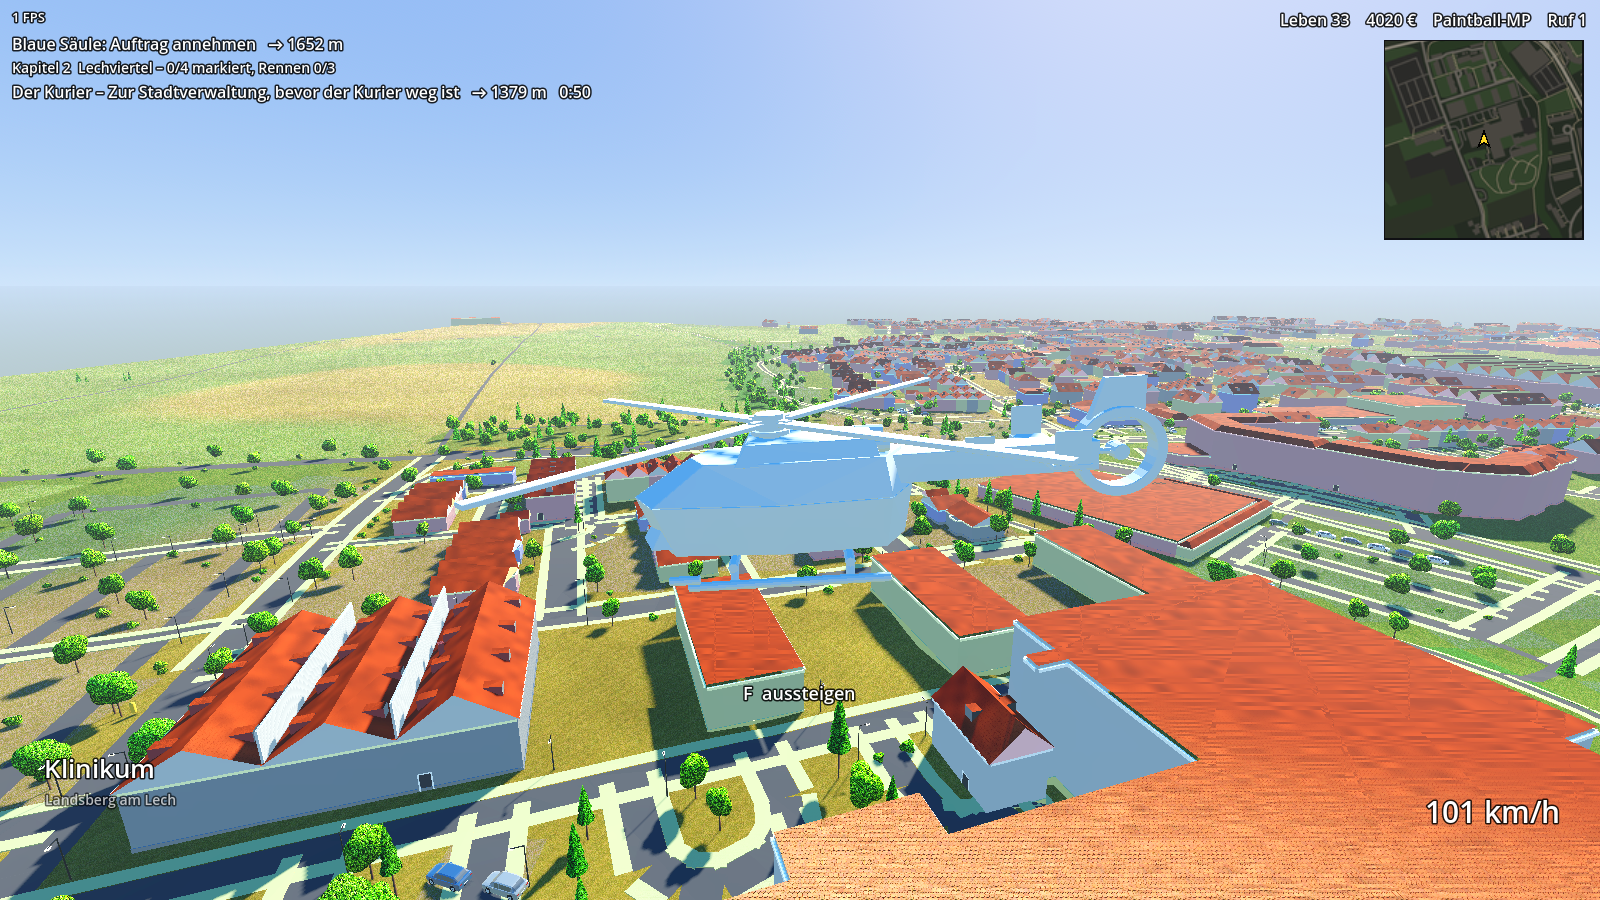
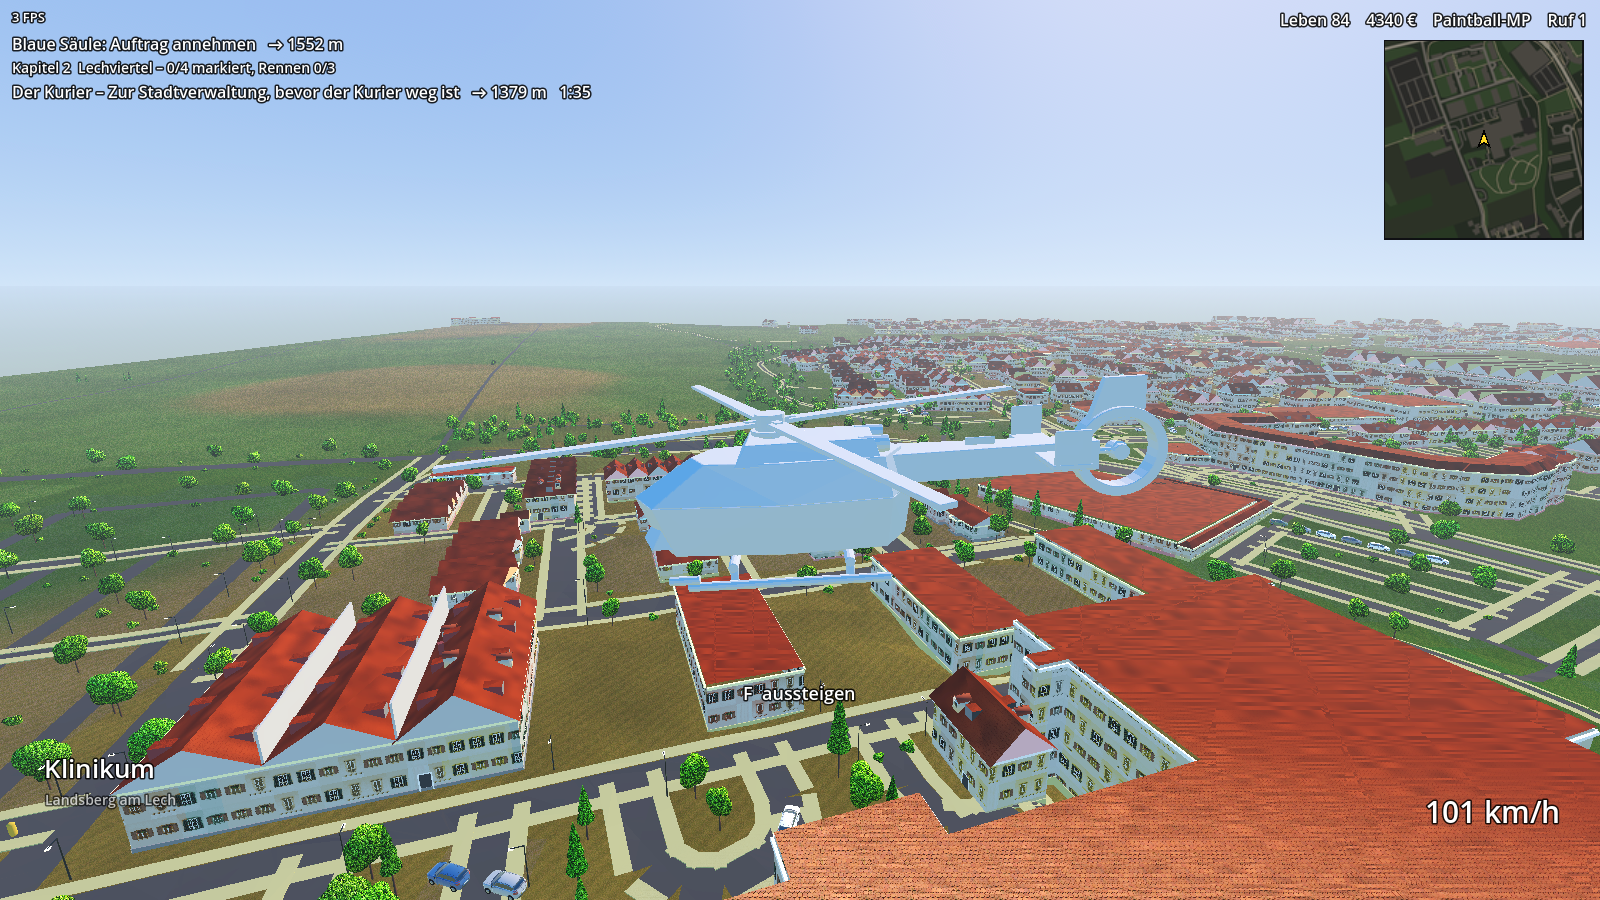
Godot: Fassaden aus Fotofeldern (Bildmodell) mit Hausfarben statt gerechneter Fenster
Claude-Session: https://claude.ai/code/session_01G8trYZWv6f7xcfM8xxU6YN

diff --git a/Godot/README.md b/Godot/README.md
@@ -74,7 +74,10 @@ die eine trifft, zählt 20 €. Die Bestleistung steht im Konto.
 über OpenRouter (`Tools/ueberarbeite_bild.py`, Ergebnisse in `Docs/Konzept/`):
 - *Texturen* für Dachziegel, Putz, Pflaster, Wiese und Laub (`Godot/texturen/*.jpg`), nahtlos
   gemacht und im Shader `flach.gdshader` (Stile Fassade, Dach, Pflaster, Gelände) benutzt.
-- *Fassaden*: eingelassene Fenster mit Laibung, Rahmen, Bank und Läden per Shader.
+- *Fassaden*: drei vom Bildmodell erzeugte Fensterfelder (Sprossenfenster mit Läden, Rundbogen,
+  Blumenkasten; `texturen/fenster_*.jpg`) wiederholen sich je Zelle von 2,15 × 3,2 m auf allen
+  Wänden; der neutrale Putz nimmt eine Hausfarbe an (Creme, Ocker, Gelb, Lachs, Graugrün). Ohne
+  die Texturen zeichnet der Shader die Fenster selbst.
 - *Bäume* (`baeume.gd`): Der Konverter ersetzt die Kegelnetze durch Instanzen; Laubbäume haben
   runde Kronen aus mehreren Kugeln, Nadelbäume gestapelte Kegel.
 - *Straßenmöbel* (`strassenmoebel.gd`): Laternen, Straßenbäume und Sträucher entlang des
